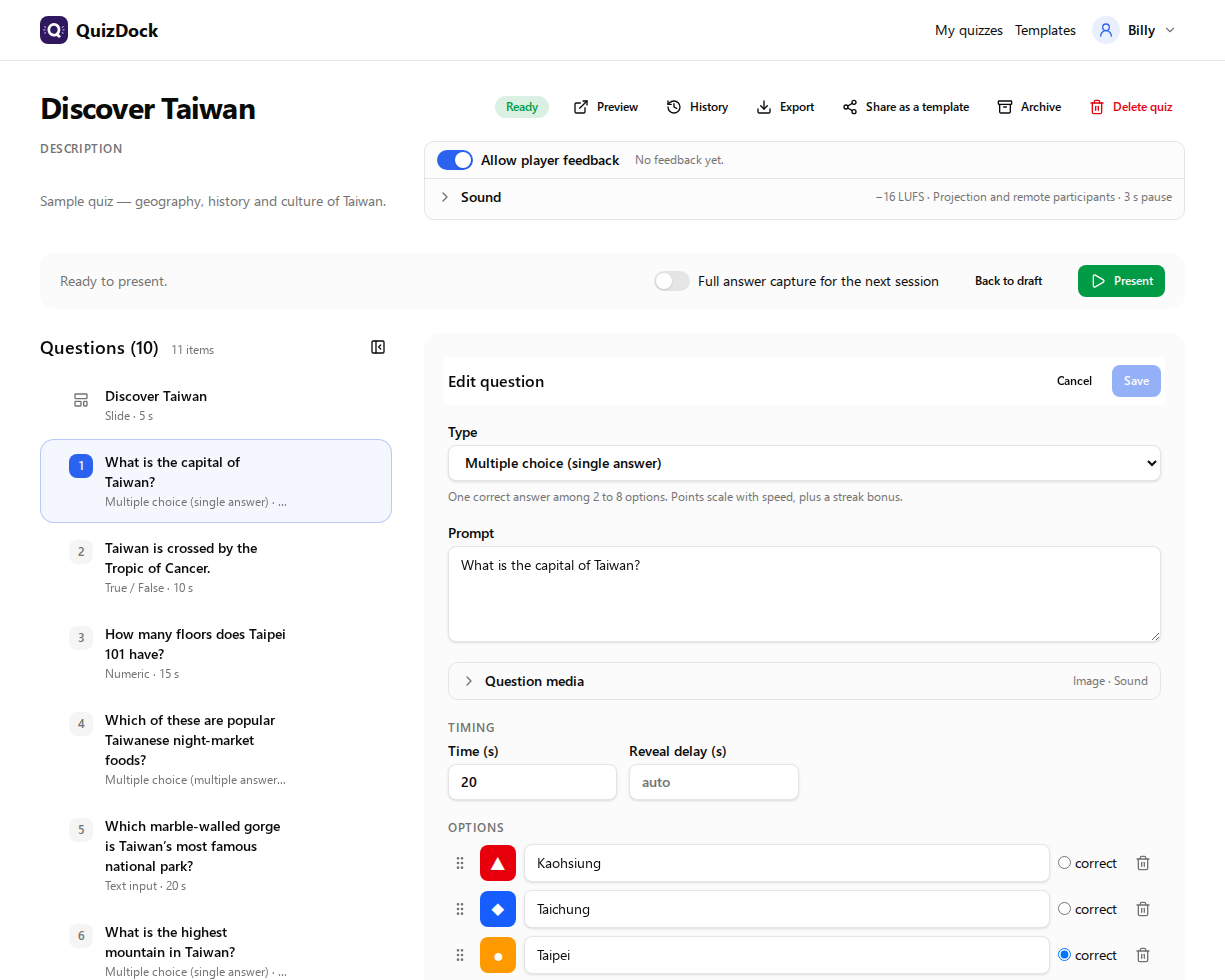
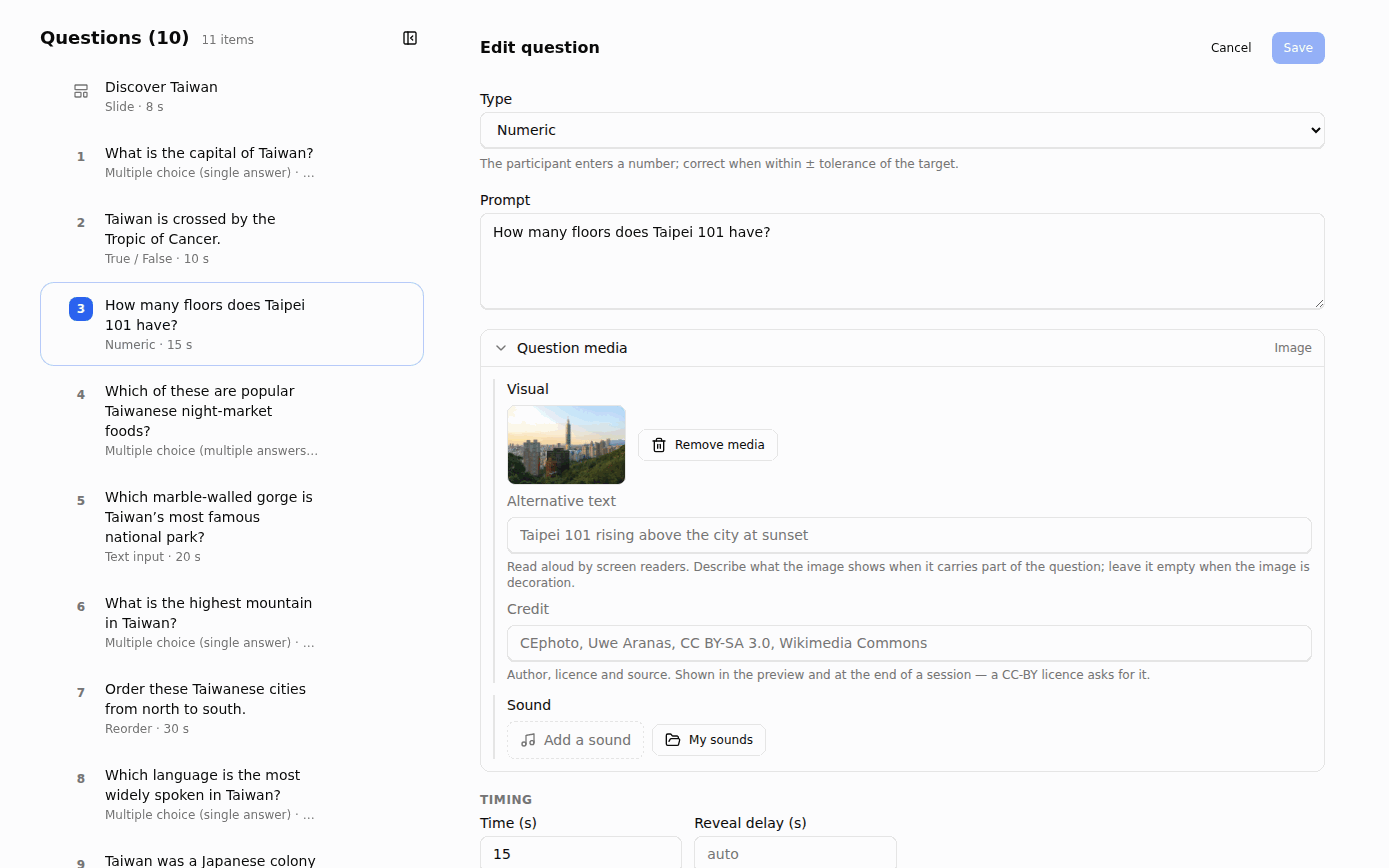
Media library: My media, global media, credits, instance media; new screenshots
Held locally until the release that ships them is published.

Claude-Session: https://claude.ai/code/session_01HMC25yPutiZcGQKGddCFLM

diff --git a/index.html b/index.html
@@ -107,7 +107,7 @@
         <div class="media-card">
           <p class="media-kicker">New in 0.7 <span class="tag-exp">experimental</span></p>
           <h2>Questions you hear and watch</h2>
-          <p class="sub">An MP4 video or an MP3 sound in any question — for the room on the big screen, and for whoever follows from home.</p>
+          <p class="sub">A video or a sound in any question — for the room on the big screen, and for whoever follows from home. And a media library to keep them in.</p>
           <div class="media-grid">
             <div>
               <h3>🎧 Video &amp; sound</h3>
@@ -124,6 +124,14 @@
             <div>
               <h3>👂 Listen first, then answer</h3>
               <p>A question can keep its answers closed until the media has played: nobody answers during it, everyone gets the full time after.</p>
+            </div>
+            <div>
+              <h3>🗂 A media library</h3>
+              <p>Drop any image, video or sound your browser reads: converted right there to WebP, MP4 or M4A, stored once, reused from <em>My media</em> — or from the global media the instance provides to every host.</p>
+            </div>
+            <div>
+              <h3>🧾 Credits</h3>
+              <p>Author, licence and source on every media, carried with the quiz when shared; listed with the quiz and in small print under the podium, as a CC-BY licence asks.</p>
             </div>
           </div>
           <p class="media-note">Experimental: tested in Chromium browsers, not yet on iPhone. <a href="https://github.com/quizdock/quiz-dock/blob/main/docs/self-hosting/audio-video.md">The audio &amp; video guide ↗</a></p>
@@ -187,8 +195,11 @@
           <li><strong>Answer explanations</strong> — shown at the reveal, with a per-question reveal delay in automatic mode.</li>
           <li><strong>Player avatars</strong> — a unique generated <a href="https://multiavatar.com">Multiavatar</a> for every player, no upload, the same face on every screen.</li>
           <li><strong>Host in control</strong> — Console / Projection / Participant views, layout edits reach a running session at its next step, sessions survive a restart.</li>
-          <li><strong>Video &amp; sound</strong> <span class="tag-exp">experimental</span> — MP4 videos and MP3 sounds in questions, loudness-matched, drawn as a waveform with a playhead that follows the projection; started on the same instant on every device, fetched ahead from the lobby, and the room waits a moment for a device still loading; <em>listen first</em> questions open the answers once the media has played. Tested in Chromium browsers, not yet on iPhone.</li>
+          <li><strong>Video &amp; sound</strong> <span class="tag-exp">experimental</span> — videos and sounds in questions, converted in the browser from whatever it reads, loudness-matched, drawn as a waveform with a playhead that follows the projection; started on the same instant on every device, fetched ahead from the lobby, and the room waits a moment for a device still loading; <em>listen first</em> questions open the answers once the media has played. Tested in Chromium browsers, not yet on iPhone.</li>
           <li><strong>Remote participants</strong> <span class="tag-exp">experimental</span> — someone following from home says so when joining and gets the whole question on their device; who hears the sound is set per quiz, per question and per session.</li>
+          <li><strong>Media library</strong> — <em>My images / videos / sounds</em> to reuse what you uploaded, global media provided by the instance, credits, links to free libraries (Openverse, Wikimedia Commons, Freesound…).</li>
+          <li><strong>Instance media</strong> — for administrators: disk by kind and owner, the clean-up, every file as a list or a grid with a preview (a sound on its waveform), global media, deletion for moderation once usages are listed.</li>
+          <li><strong>Media housekeeping</strong> — each file stored once, unused media and stray files cleaned up hourly, older formats kept playing.</li>
           <li><strong>Invitation address</strong> — the QR code and join link point where phones can actually reach the instance: public URL, LAN IP or any address.</li>
           <li><strong>Player feedback</strong> — stars and an optional comment at the end; hosts see the distribution and browse the reviews. Off per quiz when unwanted.</li>
           <li><strong>Answer capture</strong> — optionally keep every player’s individual answers for audit, certification or follow-up, decided per session.</li>
@@ -197,6 +208,7 @@
           <li><strong>Quiz import / export</strong> — a quiz travels as a portable bundle (<code>quiz.json</code> + media, zipped): back it up, move it, share it — from the app or the CLI.</li>
           <li><strong>Multilingual</strong> — English, French, Spanish, Simplified and Traditional Chinese, one language per instance.</li>
           <li><strong>White-label</strong> — name, logo and CSS via an env variable and a mounted folder, no rebuild.</li>
+          <li><strong>Feedback links</strong> — report a bug, suggest a feature, fix a translation or ask a question from the home page, pre-filled with the version and the browser; pointed at your own repository or hidden.</li>
           <li><strong>Operator script</strong> — <code>quizdock init / up / backup / upgrade / doctor</code>: guided setup and day-to-day admin, Docker only.</li>
           <li><strong>Hardened runtime</strong> — distroless image, non-root, read-only root FS, capabilities dropped; dependencies and image scanned on every push.</li>
           <li><strong>MIT licensed</strong> — free to use, modify and redistribute, including for internal self-hosting.</li>
@@ -234,18 +246,23 @@
           <div class="carousel-track" id="shots">
             <figure class="slide"><img src="screenshots/my-quizzes.png" alt="My quizzes" loading="lazy" /><figcaption>My quizzes — your bank: search, filter, import / export, one click to present</figcaption></figure>
             <figure class="slide"><img src="screenshots/templates.png" alt="Shared templates" loading="lazy" /><figcaption>Templates — quizzes shared on the instance; take an independent copy</figcaption></figure>
-            <figure class="slide"><img src="screenshots/editor.png" alt="Quiz builder" loading="lazy" /><figcaption>Quiz builder — 7 question types, video &amp; sound, slides, backgrounds, scoring rules</figcaption></figure>
+            <figure class="slide"><img src="screenshots/editor.png" alt="Quiz builder" loading="lazy" /><figcaption>Quiz builder — a question's picture with its alternative text and credit; 7 question types, video &amp; sound, slides</figcaption></figure>
+            <figure class="slide"><img src="screenshots/media-library.png" alt="My media" loading="lazy" /><figcaption>My media — reuse what you uploaded, with sizes and usages; links to free libraries</figcaption></figure>
+            <figure class="slide"><img src="screenshots/media-library-global.png" alt="Global media" loading="lazy" /><figcaption>Global media — what the instance provides to every host, credited</figcaption></figure>
             <figure class="slide"><img src="screenshots/console-lobby.png" alt="Host console — lobby" loading="lazy" /><figcaption>Host console — PIN, QR code, players in the room or remote, who hears the sound</figcaption></figure>
             <figure class="slide"><img src="screenshots/projection-lobby.png" alt="Projection — lobby" loading="lazy" /><figcaption>Projection — the big screen while players join</figcaption></figure>
             <figure class="slide"><img src="screenshots/join.png" alt="Join by PIN, nickname and avatar, in the room or remote" loading="lazy" /><figcaption>Join — PIN or QR code, nickname &amp; Multiavatar avatar, in the room or remote, no account</figcaption></figure>
             <figure class="slide"><img src="screenshots/projection-slide.png" alt="Content slide" loading="lazy" /><figcaption>Content slide — headings, text, images, backgrounds</figcaption></figure>
             <figure class="slide"><img src="screenshots/projection-question.png" alt="Projection — question" loading="lazy" /><figcaption>Projection — live question, Kahoot-style</figcaption></figure>
+            <figure class="slide"><img src="screenshots/projection-media.png" alt="Projection — question with a picture" loading="lazy" /><figcaption>Projection — a question with its picture on the big screen</figcaption></figure>
             <figure class="slide"><img src="screenshots/player-play.png" alt="Player — question and reveal" loading="lazy" /><figcaption>Player — answers listed, colour tiles to tap, then own result</figcaption></figure>
             <figure class="slide"><img src="screenshots/console-question.png" alt="Host console — question" loading="lazy" /><figcaption>Host console — chrono, answers received, reveal now</figcaption></figure>
             <figure class="slide"><img src="screenshots/projection-reveal.png" alt="Projection — reveal" loading="lazy" /><figcaption>Reveal — distribution, explanation, live leaderboard</figcaption></figure>
             <figure class="slide"><img src="screenshots/console-reveal.png" alt="Host console — reveal" loading="lazy" /><figcaption>Host console — look back over played questions, next</figcaption></figure>
             <figure class="slide"><img src="screenshots/player-end.png" alt="Player — ordering and feedback" loading="lazy" /><figcaption>Player — drag-and-drop ordering, rate the quiz at the end</figcaption></figure>
             <figure class="slide"><img src="screenshots/projection-podium.png" alt="Podium" loading="lazy" /><figcaption>Podium — final results on the big screen</figcaption></figure>
+            <figure class="slide"><img src="screenshots/admin-media.png" alt="Instance media" loading="lazy" /><figcaption>Instance media — disk, clean-up, every file as a grid or a list, the global media</figcaption></figure>
+            <figure class="slide"><img src="screenshots/admin-media-preview.png" alt="Preview of a sound" loading="lazy" /><figcaption>Preview — a sound on its waveform, with its format, length, owners and usages</figcaption></figure>
           </div>
           <button class="carousel-btn next" type="button" aria-label="Next screenshot">›</button>
         </div>
